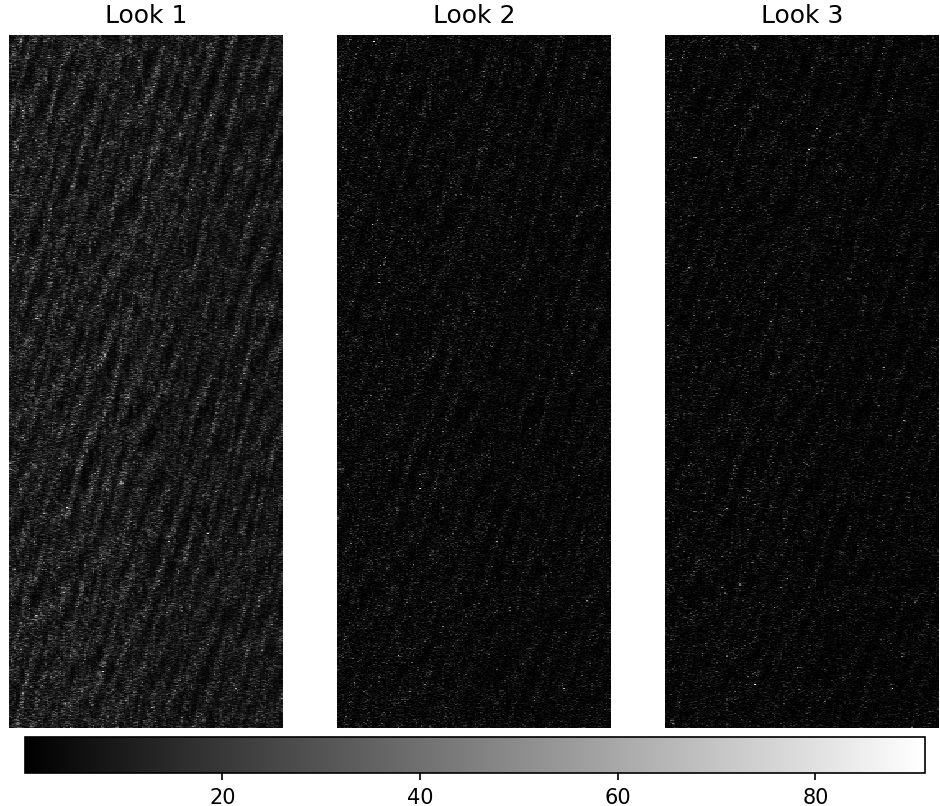
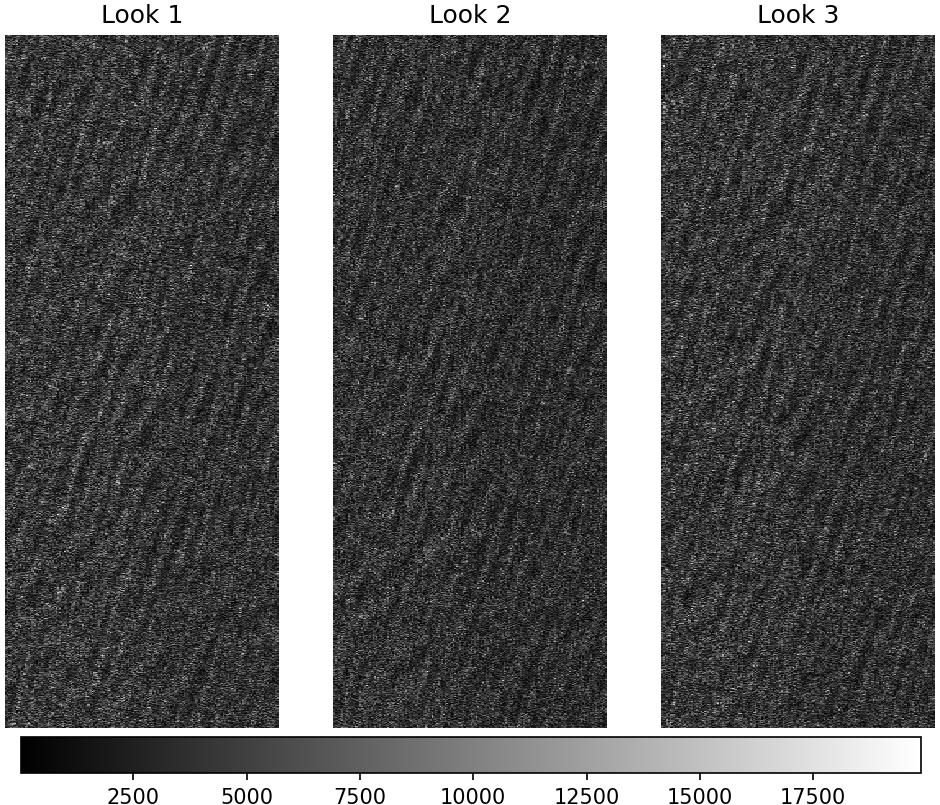
Refactor task_4B function to update intensity image visualization

diff --git a/test0.1.py b/test0.1.py
@@ -3,6 +3,7 @@ import numpy as np
 from scipy.signal import convolve2d
 import matplotlib.colors as mcolors
 from matplotlib.colorbar import ColorbarBase
+import cv2
 
 
 
@@ -149,7 +150,7 @@ def task_1B():
     Plots the magnitude spectrum of the image in the Fourier/Freq domain.
     ~ Complex valued 2D spectra
     """
-    plt.style.use("ggplot")
+    #plt.style.use("ggplot")
     plt.figure(figsize=(8, 6))
     plt.pcolor(kx, ky, img_spec, cmap='gray')
     plt.colorbar()
@@ -157,7 +158,6 @@ def task_1B():
     plt.ylabel(r'Azimuth Wavenumber $[rad/m]$')
     plt.title('Spectrum of the Image')
     plt.show()
-    
 
 spec_profile_azimuth = np.mean(np.abs(img_fft_shifted), axis=0)
 def task_2B():
@@ -184,23 +184,113 @@ def task_2B():
         print("The spectral profile is symmetric around the zero frequency.")
     else:
         print("----|The spectral profile is shifted|----")
-        #print it is shifted by the amount of pixels
-        print("Shifted by: ", np.argmax(spec_profile_azimuth))
+        # find the amount of shift
+        print("Shifted by: ", np.argmax(spec_profile_azimuth) - Ny // 2)
 
-#spec_profile = np.mean(img_fft_shifted, axis=0)
-max_index = np.argmax(spec_profile_azimuth)
-azimuth_shift = len(spec_profile_azimuth) // 2 
 
-shifted_img_fft = np.roll(img_fft_shifted, -azimuth_shift, axis=0)
+azimuth_shift = len(spec_profile_azimuth) // 2
 
+shifted_img_fft = np.roll(img_fft_shifted, shift=-azimuth_shift, axis=0)
 def task_3B():
+    print("Azimuth shift in pixels:", shifted_img_fft)
     
+    plt.figure(figsize=(8, 6))
     plt.pcolormesh(kx, ky, np.abs(shifted_img_fft), cmap='gray')
     plt.colorbar()
-    plt.xlabel("Range (pixels)")
-    plt.ylabel("Azimuth (pixels)")
-    plt.title("Shifted Image")
+    plt.xlabel(r'Range Wavenumber $[rad/m]$')
+    plt.ylabel(r'Azimuth Wavenumber $[rad/m]$')
+    plt.title('Spectrum of the Image with Azimuth Shift')
+    plt.show()
+    
+Ny = shifted_img_fft.shape[1]
+print(shifted_img_fft.shape)
+num_parts = 3
+part_size = Ny // num_parts
+intensity_images = []
+
+for i in range(num_parts):
+    start_idx = i*part_size
+    end_idx = (i+1) * part_size
+    complex_look = shifted_img_fft[:, start_idx:end_idx]
+    
+    complex_image  = np.fft.ifftshift(complex_look, axes=0)
+    spatial_image = np.fft.ifft2(complex_image)
+    
+    intensity_image = np.abs(spatial_image)
+    intensity_images.append(intensity_image)    
+def task_4B():
+        
+    plt.figure(figsize=(8, 6))
+    for i, intensity_image in enumerate(intensity_images):
+        plt.subplot(1, num_parts, i+1)
+        plt.pcolormesh(intensity_image, cmap='gray')
+        plt.title(f'Look {i+1}')
+        #plt.colorbar()
+        plt.axis('off')
+    
+    colorbar_axes = plt.gcf().add_axes([0.138, 0.06, 0.75, 0.04])
+    norm = mcolors.Normalize(vmin=np.min(intensity_images), vmax=np.max(intensity_images))
+    colorbar = ColorbarBase(colorbar_axes, cmap='gray', orientation="horizontal", norm=norm) 
+    
+    plt.show()
+    
+def task_5B():
+    mean_intensity1 = np.mean(intensity_images[0]) # Mean intensity of the first look
+    mean_intensity2 = np.mean(intensity_images[1]) # Mean intensity of the second look
+    mean_intensity3 = np.mean(intensity_images[2]) # Mean intensity of the third look
+
+
+    normalized_intensity1 = intensity_images[0] / mean_intensity1 # Normalized intensity of the first look
+    print(normalized_intensity1.shape, "normalized_intensity1")
+    normalized_intensity2 = intensity_images[1] / mean_intensity2 # Normalized intensity of the second look
+    normalized_intensity3 = intensity_images[2] / mean_intensity3 # Normalized intensity of the third look
+    
+    
+    fourier_tr1 = np.fft.fftshift(np.fft.fft2(normalized_intensity1))
+    fourier_tr2 = np.fft.fftshift(np.fft.fft2(normalized_intensity2))
+    fourier_tr3 = np.fft.fftshift(np.fft.fft2(normalized_intensity3))
+
+    co_spectrum1_2 = np.conj(fourier_tr1) * fourier_tr2
+    co_spectrum2_3 = np.conj(fourier_tr2) * fourier_tr3
+    co_spectrum1_3 = np.conj(fourier_tr1) * fourier_tr3
+
+    
+    cross_spectrum1_2 = np.conj(fourier_tr1) * fourier_tr2
+    cross_spectrum2_3 = np.conj(fourier_tr2) * fourier_tr3
+
+    avg_co_spectrum = (co_spectrum1_2 + co_spectrum2_3 + co_spectrum1_3) / 3
+    avg_cross_spectrum = (cross_spectrum1_2 + cross_spectrum2_3) / 2
+    
+    magnitude_co_spectrum1_3 = np.abs(co_spectrum1_3)
+    phase_co_spectrum1_3 = np.angle(co_spectrum1_3)
+
+
+    plt.figure(figsize=(8, 6))
+    plt.pcolormesh(np.log(np.abs(avg_co_spectrum)), cmap='gray')
+    plt.colorbar()
+    plt.xlabel(r'Range Wavenumber $[rad/m]$')
+    plt.ylabel(r'Azimuth Wavenumber $[rad/m]$')
+    plt.title('Co-Spectrum')
+    plt.xlim(40, 140)
+    plt.ylim(780,980)
     plt.show()
 
-#task_2B()
-task_3B()
+    plt.figure(figsize=(8, 6))
+    plt.pcolormesh(np.log(np.abs(avg_cross_spectrum)), cmap='gray')
+    plt.colorbar()
+    plt.xlabel(r'Range Wavenumber $[rad/m]$')
+    plt.ylabel(r'Azimuth Wavenumber $[rad/m]$')
+    plt.title('Cross-Spectrum')
+    plt.show()
+    
+    plt.figure(figsize=(8, 6))
+    plt.pcolormesh(np.log(np.abs(magnitude_co_spectrum1_3)), cmap='gray')
+    plt.colorbar()
+    plt.xlabel(r'Range Wavenumber $[rad/m]$')
+    plt.ylabel(r'Azimuth Wavenumber $[rad/m]$')
+    plt.title('Magnitude of Co-Spectrum')
+    plt.show()
+    
+    
+    
+task_5B()

diff --git a/Home exam active.py b/Home exam active.py
@@ -188,7 +188,7 @@ def task_2B():
 
 
 azimuth_shift = len(spec_profile_azimuth) // 2
-
+shifted_azimuth_pixels = np.argmax(spec_profile_azimuth) - Ny // 2
 shifted_img_fft = np.roll(img_fft_shifted, shift=-azimuth_shift, axis=0)
 def task_3B():
     print("Azimuth shift in pixels:", shifted_img_fft)
@@ -215,7 +215,7 @@ for i in range(num_parts):
     complex_image  = np.fft.ifftshift(complex_look, axes=0)
     spatial_image = np.fft.ifft2(complex_image)
     
-    intensity_image = np.abs(spatial_image)**2
+    intensity_image = np.abs(spatial_image)
     intensity_images.append(intensity_image)    
 def task_4B():
         
@@ -224,16 +224,13 @@ def task_4B():
         plt.subplot(1, num_parts, i+1)
         plt.pcolormesh(intensity_image, cmap='gray')
         plt.title(f'Look {i+1}')
-        plt.colorbar()
+        #plt.colorbar()
         plt.axis('off')
     
-    """ # Create a new axes at the bottom of current figure, with 10% height and 100% width relative to the figure
     colorbar_axes = plt.gcf().add_axes([0.138, 0.06, 0.75, 0.04])
-
-    # Create a Normalize instance to normalize data to [0-1] range
     norm = mcolors.Normalize(vmin=np.min(intensity_images), vmax=np.max(intensity_images))
-    # Create a ColorbarBase instance with the 'gray' colormap
-    colorbar = ColorbarBase(colorbar_axes, cmap='gray', norm=norm, orientation='horizontal') """
+    colorbar = ColorbarBase(colorbar_axes, cmap='gray', orientation="horizontal", norm=norm) 
+    
     plt.show()
     
 def task_5B():
@@ -259,8 +256,8 @@ def task_5B():
     co_spectrum_avg = np.fft.fftshift(co_spectrum_avg, axes=(0,1))
     
     cross_spectrum_avg = np.mean(cross_spectra, axis=0)
-    #cross_spectrum_avg = np.roll(cross_spectrum_avg, shift=azimuth_shift_pixels, axis=0)
-    cross_spectrum_avg = np.fft.fftshift(cross_spectrum_avg, axes=(0,1))
+    #cross_spectrum_avg = np.roll(cross_spectrum_avg, shift=shifted_azimuth_pixels, axis=0)
+    #cross_spectrum_avg = np.fft.fftshift(cross_spectrum_avg, axes=(0,1))
     
     complex_spectra = [co_spectrum_avg] + [cross_spectrum_avg]*2
     #complex_spectra = np.roll(complex_spectra, shift=azimuth_shift_pixels, axis=1)
@@ -295,13 +292,13 @@ def task_5B():
 """ ---------------------------------- C. Analysis of 2D Spectra ----------------------------------- """
 
 def task_1C():
-    Ny, Nx = shifted_fourier_transform_shifted_azimuth.shape
+    Ny, Nx = shifted_img_fft.shape
     
-    shifted_spectrum = np.fft.fftshift(shifted_fourier_transform_shifted_azimuth)
+    shifted_spectrum = np.fft.fftshift(shifted_img_fft)
     
     
     # plot only on surface plot 
-    fig = plt.figure(figsize=(8, 6))
+    """ fig = plt.figure(figsize=(8, 6))
     ax = fig.add_subplot(111, projection='3d')
     X, Y = np.meshgrid(kx, ky)
     ax.plot_surface(X, Y, np.imag(shifted_spectrum), cmap='viridis')
@@ -309,8 +306,8 @@ def task_1C():
     ax.set_xlabel('Range Wavenumber $[rad/m]$')
     ax.set_ylabel('Azimuth Wavenumber $[rad/m]$')
     ax.set_zlabel('Magnitude')
-    plt.show()
-    """  fig = plt.figure(figsize=(10, 5))
+    plt.show() """
+    fig = plt.figure(figsize=(10, 5))
     ax1 = fig.add_subplot(1, 3, 1, projection='3d')
     X, Y = np.meshgrid(kx, ky)
     ax1.plot_surface(X, Y, np.real(shifted_spectrum), cmap='viridis')
@@ -333,7 +330,7 @@ def task_1C():
     ax3.set_ylabel('Azimuth Wavenumber $[rad/m]$')
     ax3.set_zlabel('Phase')
     
-    plt.show() """
+    plt.show()
     
 
 if __name__ == "__main__":
@@ -348,8 +345,8 @@ if __name__ == "__main__":
     #task_1B()
     #task_2B()
     #task_3B()
-    task_4B()
-    #task_5B()
+    #task_4B()
+    task_5B()
     
 # ______C. Analysis of 2D Spectra______ #
     #task_1C()
